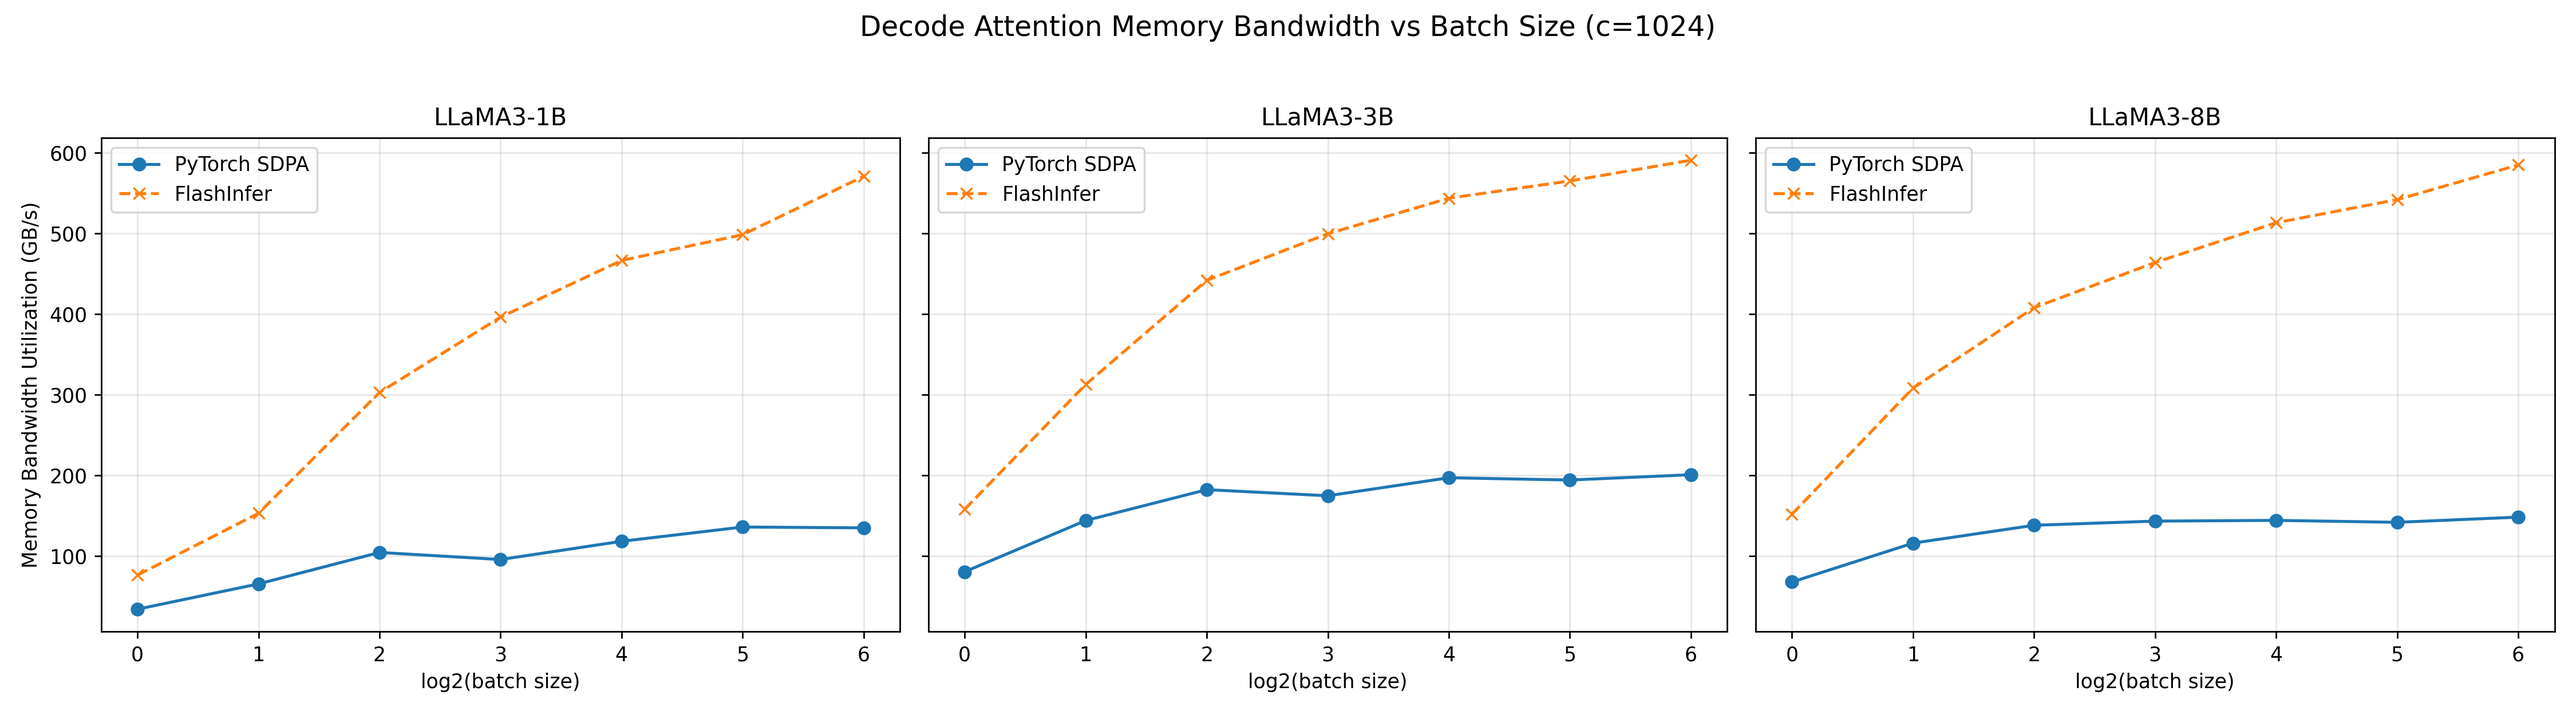
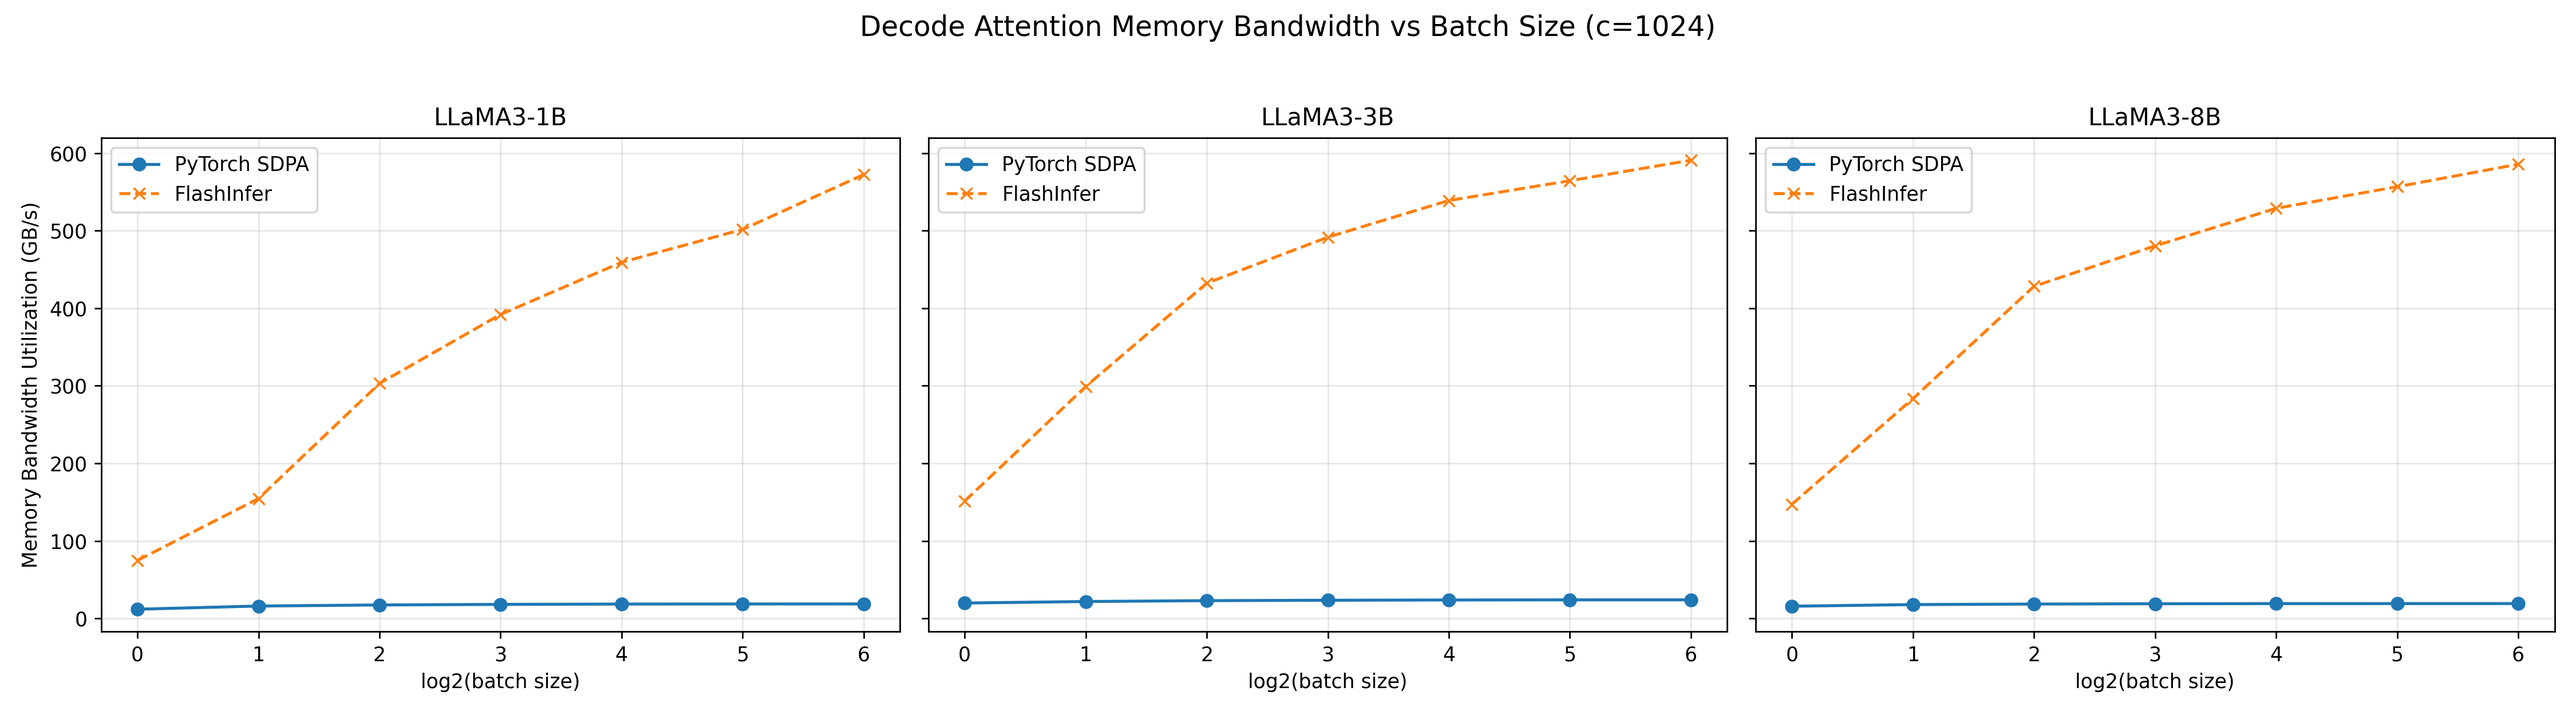
fix Section 2 SPDA

diff --git a/assignment3/Section2/benchmark_attention.py b/assignment3/Section2/benchmark_attention.py
@@ -57,10 +57,20 @@ def _time_cuda(fn, warmup: int, iters: int) -> float:
     return start.elapsed_time(end) / iters
 
 
-def _expand_kv_for_sdpa(x: torch.Tensor, num_q_heads: int) -> torch.Tensor:
-    # x: [B, H_kv, S, D] -> [B, H_q, S, D]
-    repeat_factor = num_q_heads // x.shape[1]
-    return x.repeat_interleave(repeat_factor, dim=1)
+def _safe_time_cuda(fn, warmup: int, iters: int) -> float:
+    """Like _time_cuda but returns nan on CUDA out-of-memory instead of crashing.
+
+    The GPU (sm75) has no flash-attention kernel that supports GQA, so SDPA
+    falls back to the math backend which materialises the full O(N²) float32
+    attention matrix.  For large sequence lengths this exhausts VRAM; we record
+    nan for those points and continue the benchmark.
+    """
+    try:
+        return _time_cuda(fn, warmup, iters)
+    except torch.cuda.OutOfMemoryError:
+        torch.cuda.synchronize()
+        torch.cuda.empty_cache()
+        return float("nan")
 
 
 def bench_prefill_once(
@@ -74,11 +84,8 @@ def bench_prefill_once(
     k = torch.randn(batch, h_kv, p, d, device=cfg.device, dtype=cfg.dtype)
     v = torch.randn(batch, h_kv, p, d, device=cfg.device, dtype=cfg.dtype)
 
-    k_sdpa = _expand_kv_for_sdpa(k, h_q)
-    v_sdpa = _expand_kv_for_sdpa(v, h_q)
-
-    t_sdpa_ms = _time_cuda(
-        lambda: F.scaled_dot_product_attention(q, k_sdpa, v_sdpa, is_causal=True),
+    t_sdpa_ms = _safe_time_cuda(
+        lambda: F.scaled_dot_product_attention(q, k, v, is_causal=True, enable_gqa=True),
         cfg.warmup,
         cfg.iters,
     )
@@ -118,11 +125,8 @@ def bench_decode_once(
     k_cache = torch.randn(batch, h_kv, c, d, device=cfg.device, dtype=cfg.dtype)
     v_cache = torch.randn(batch, h_kv, c, d, device=cfg.device, dtype=cfg.dtype)
 
-    k_sdpa = _expand_kv_for_sdpa(k_cache, h_q)
-    v_sdpa = _expand_kv_for_sdpa(v_cache, h_q)
-
-    t_sdpa_ms = _time_cuda(
-        lambda: F.scaled_dot_product_attention(q, k_sdpa, v_sdpa, is_causal=False),
+    t_sdpa_ms = _safe_time_cuda(
+        lambda: F.scaled_dot_product_attention(q, k_cache, v_cache, is_causal=False, enable_gqa=True),
         cfg.warmup,
         cfg.iters,
     )
@@ -191,6 +195,7 @@ def run_all(cfg: BenchCfg, out_dir: Path) -> None:
     for model_name, model in MODELS.items():
         for p in p_values:
             sdpa, fi = bench_prefill_once(model, batch=1, p=p, cfg=cfg)
+            torch.cuda.empty_cache()
             prefill_p_rows.append(
                 {
                     "model": model_name,
@@ -203,6 +208,7 @@ def run_all(cfg: BenchCfg, out_dir: Path) -> None:
 
         for b in b_values:
             sdpa, fi = bench_prefill_once(model, batch=b, p=1024, cfg=cfg)
+            torch.cuda.empty_cache()
             prefill_batch_rows.append(
                 {
                     "model": model_name,
@@ -215,6 +221,7 @@ def run_all(cfg: BenchCfg, out_dir: Path) -> None:
 
         for c in c_values:
             sdpa, fi = bench_decode_once(model, batch=1, c=c, cfg=cfg)
+            torch.cuda.empty_cache()
             decode_c_rows.append(
                 {
                     "model": model_name,
@@ -227,6 +234,7 @@ def run_all(cfg: BenchCfg, out_dir: Path) -> None:
 
         for b in b_values:
             sdpa, fi = bench_decode_once(model, batch=b, c=1024, cfg=cfg)
+            torch.cuda.empty_cache()
             decode_batch_rows.append(
                 {
                     "model": model_name,
@@ -241,6 +249,7 @@ def run_all(cfg: BenchCfg, out_dir: Path) -> None:
             _, fi = bench_decode_once(
                 model, batch=128, c=1024, cfg=cfg, page_size=page_size
             )
+            torch.cuda.empty_cache()
             decode_page_rows.append(
                 {"model": model_name, "page_size": page_size, "flashinfer_gbps": fi}
             )
